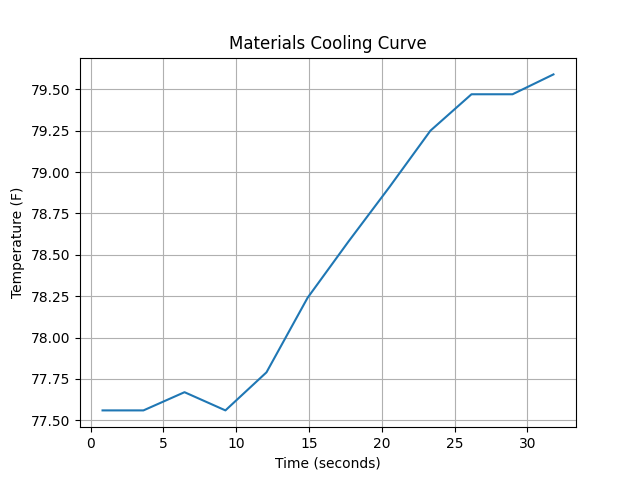
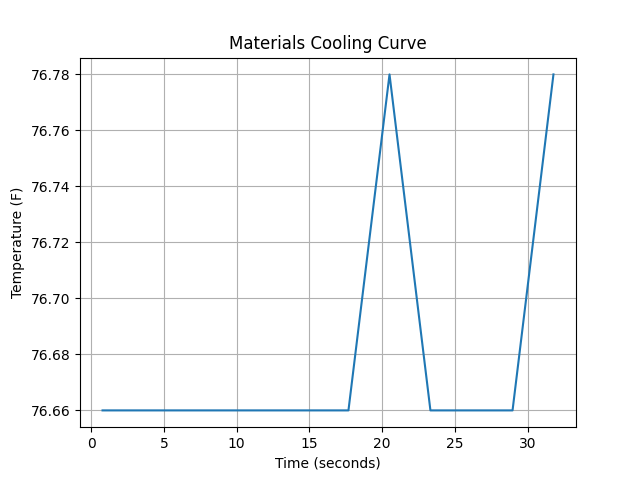
edits done to graph file and test_temp file and sample trial done again

diff --git a/src/trial_statistics.py b/src/trial_statistics.py
@@ -3,7 +3,7 @@ import glob
 
 material = input('Enter material name: ').lower()
 
-files = glob.glob(f'data/{material}_trial*.csv')
+files = glob.glob(f'sample_data/{material}_trial*.csv')
 
 if len(files) == 0:
     print('No trial files found.')
@@ -16,13 +16,13 @@ for file in files:
 
     df = pd.read_csv(file)
 
-    initial_temp = df['Temperature'].iloc[0]
-    final_temp = df['Temperature'].iloc[-1]
+    initial_temp = df['Temp_F'].iloc[0]
+    final_temp = df['Temp_F'].iloc[-1]
 
-    initial_time = df['Time'].iloc[0]
-    final_time = df['Time'].iloc[-1]
+    initial_time = df['Time_s'].iloc[0]
+    final_time = df['Time_s'].iloc[-1]
 
-    max_temp = df['Temperature'].max()
+    max_temp = df['Temp_F'].max()
 
     time_minutes = (final_time - initial_time) / 60
 

diff --git a/src/test_temp.py b/src/test_temp.py
@@ -7,11 +7,12 @@ sensor = W1ThermSensor()
 
 material = input("Enter material name: ").lower()
 
-existing_trials = glob.glob(f"experimental_data/{material}_trail*.csv")
-
+existing_trials = glob.glob(f"sample_data/{material}_trial*.csv")
+print(existing_trials)
+print(len(existing_trials))
 trial_num = len(existing_trials) + 1
 
-filename = f"experimental_data/{material}_trail{trial_num}.csv"
+filename = f"sample_data/{material}_trial{trial_num}.csv"
 
 print(f"Saving data to {filename}")
 
